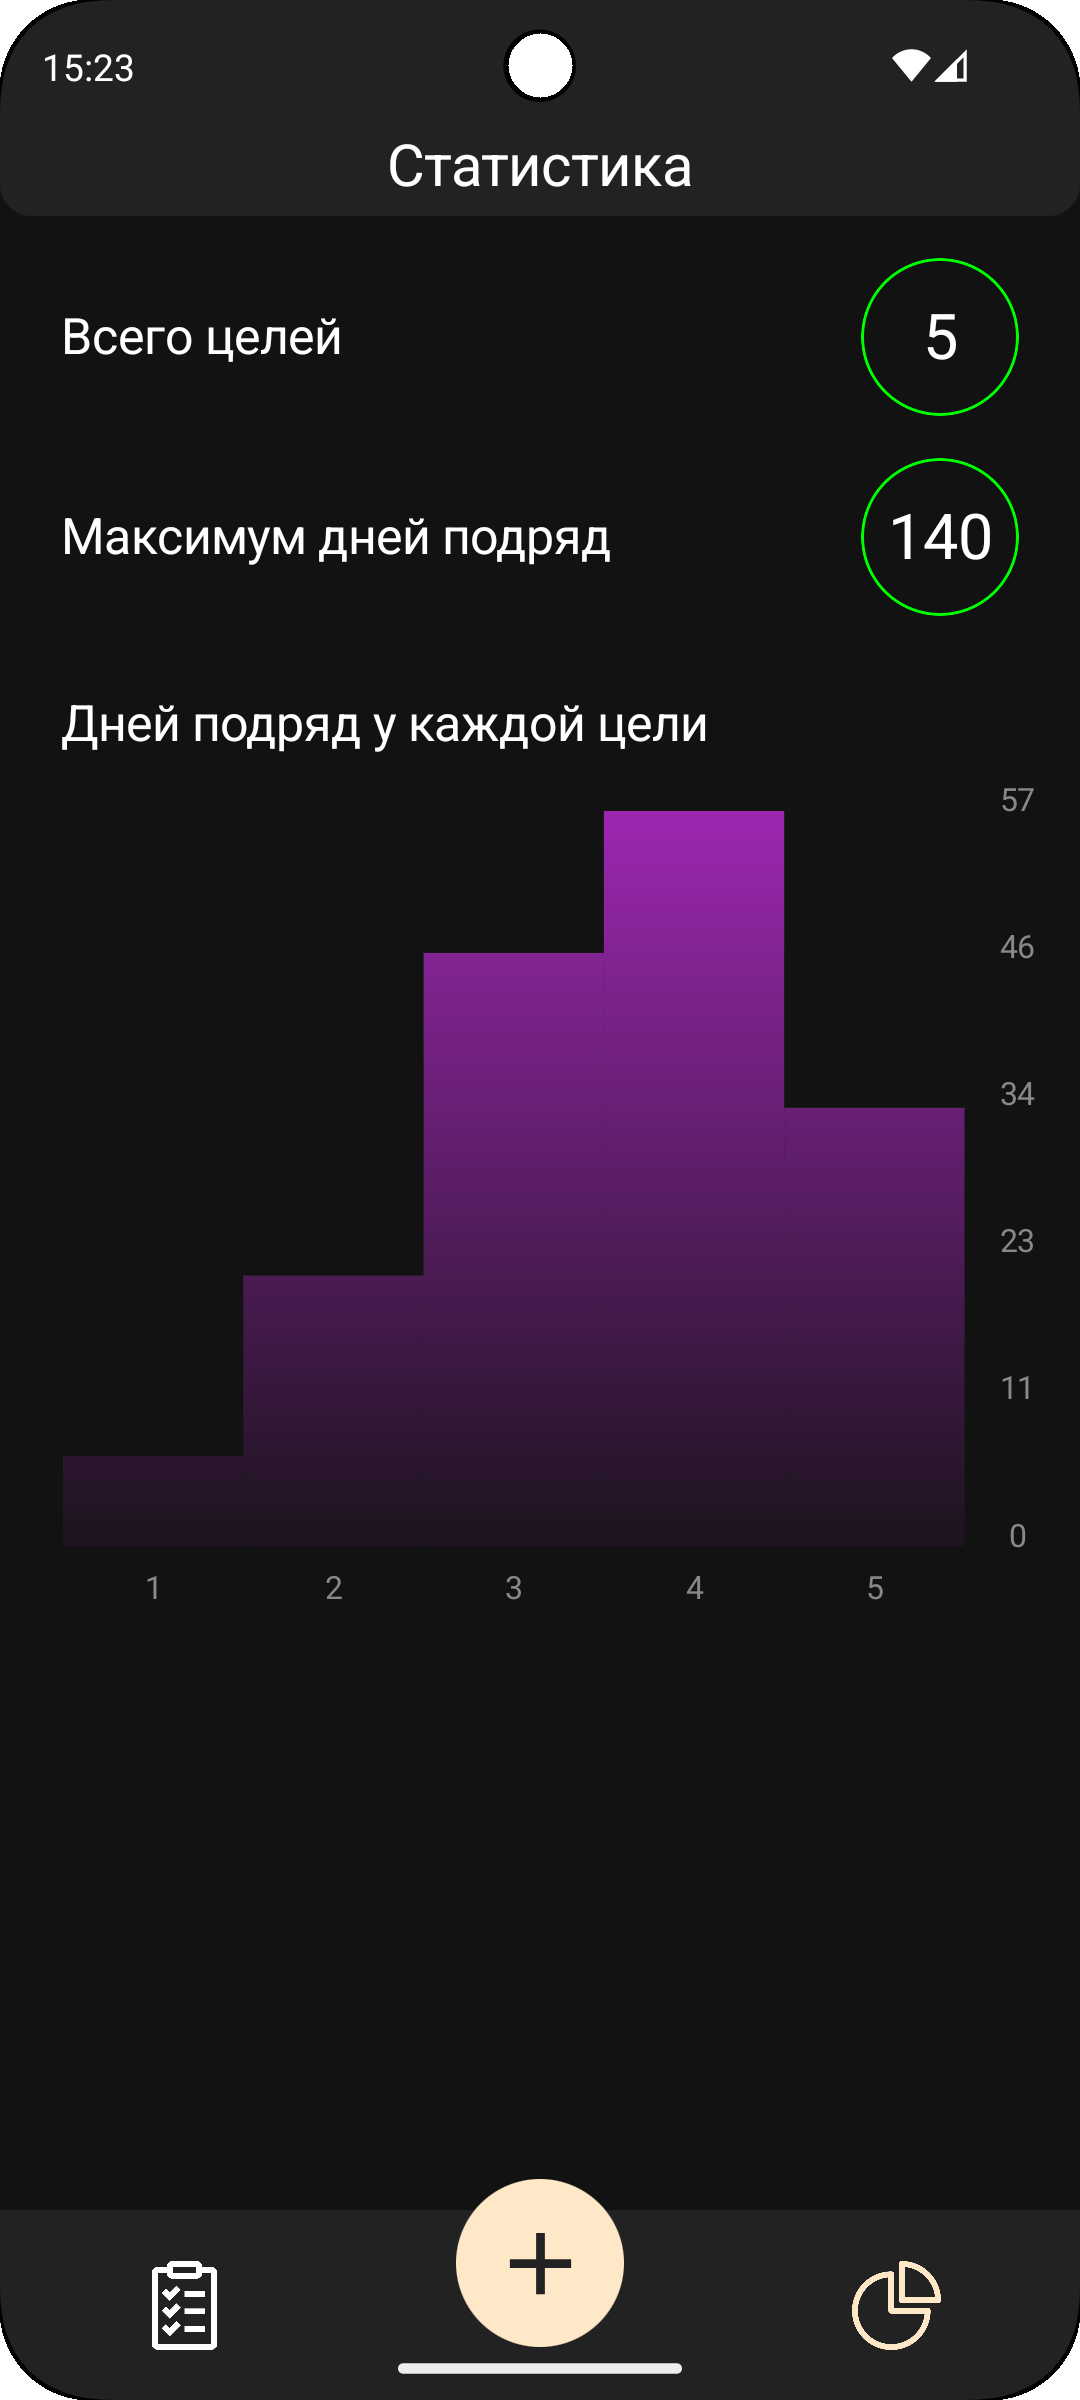
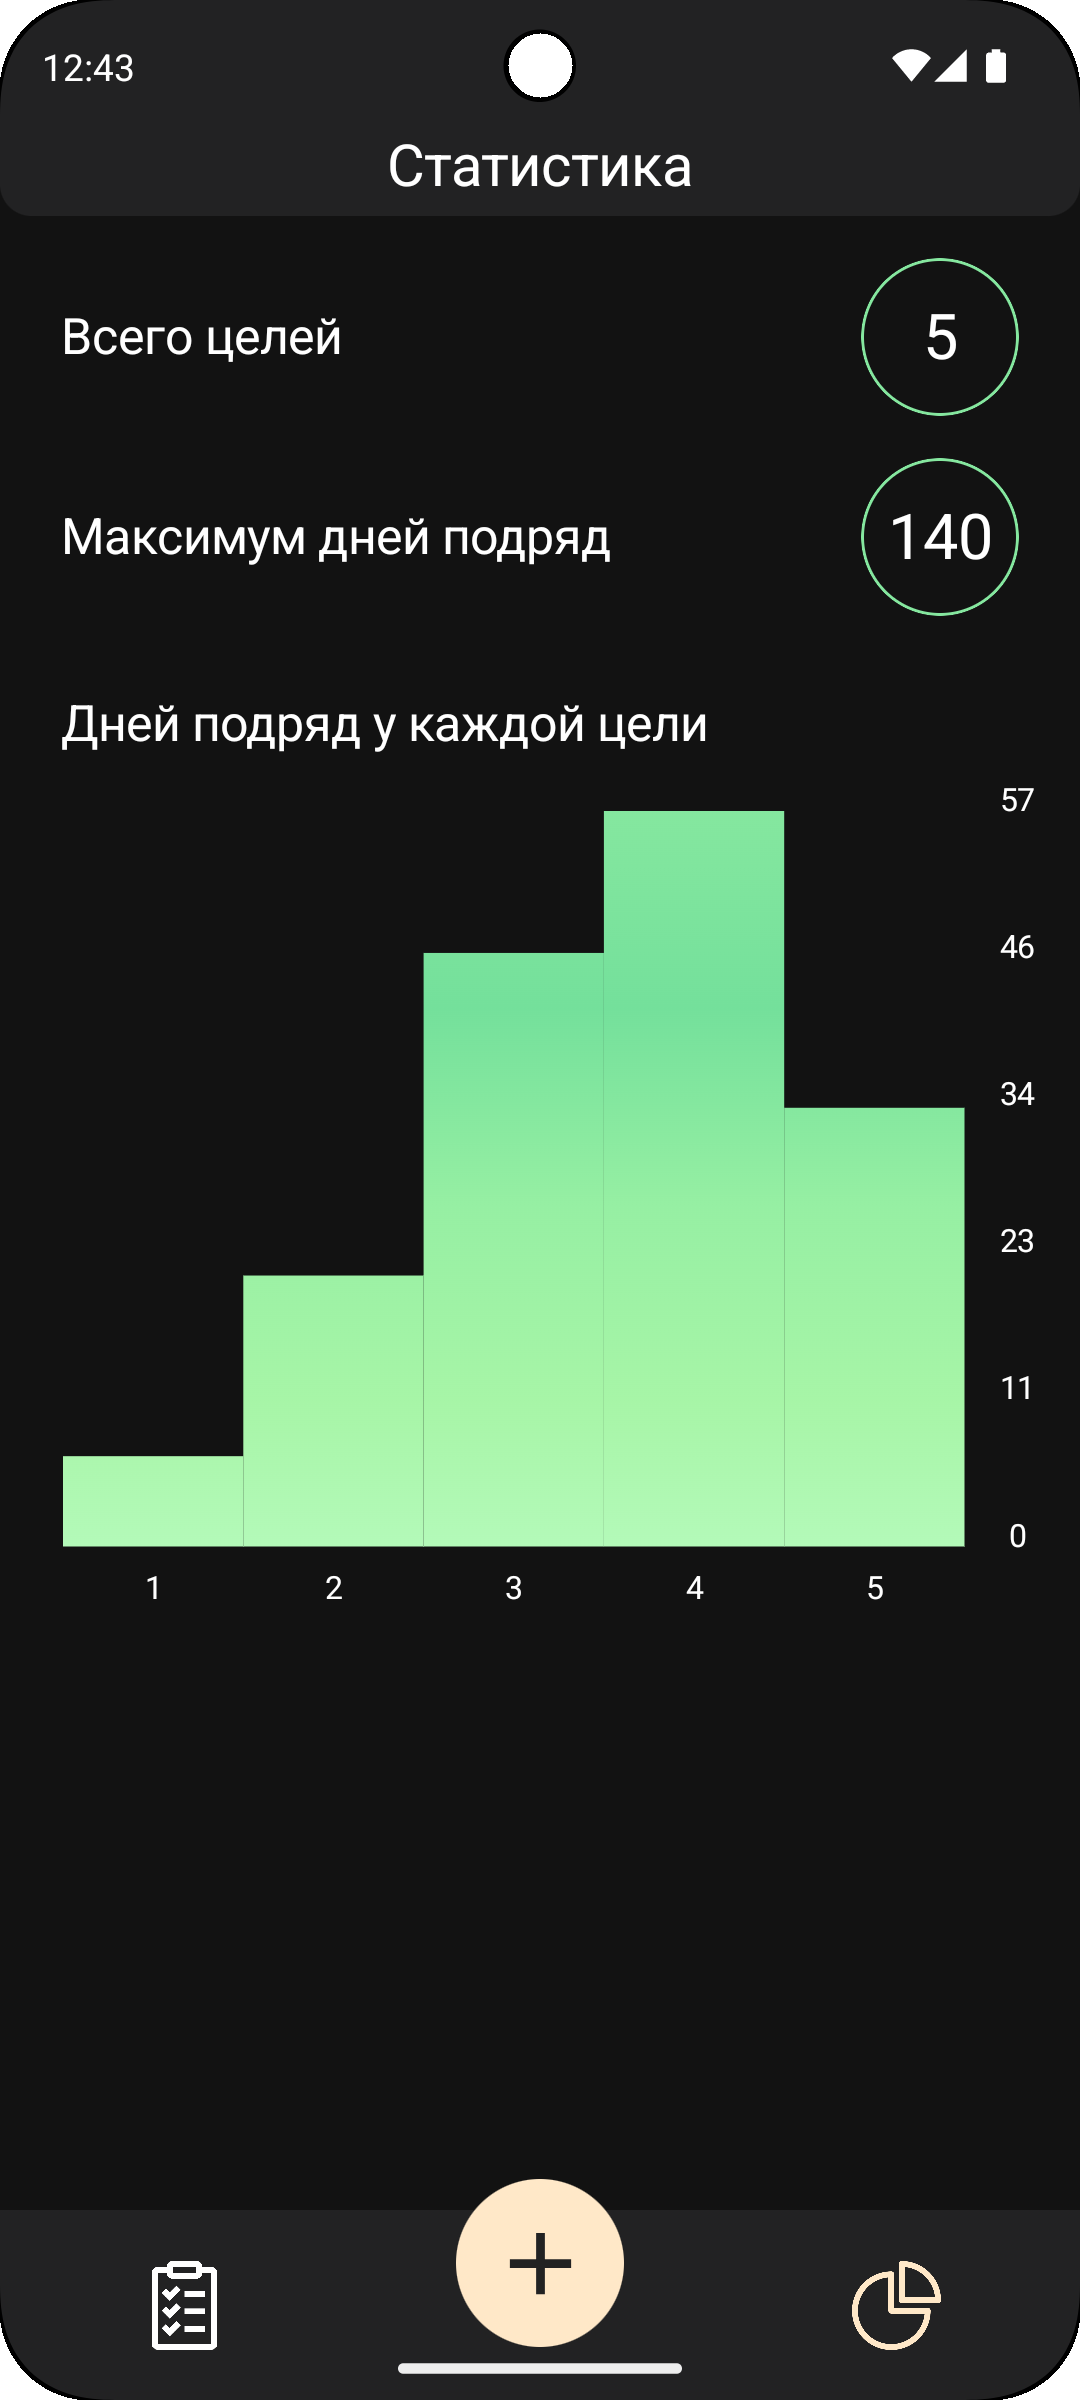
fixed: negative days in "comeback in", graph colors

diff --git a/app/src/main/java/com/unclled/habittracker/ui/statistic/view/StatisticView.kt b/app/src/main/java/com/unclled/habittracker/ui/statistic/view/StatisticView.kt
@@ -19,6 +19,7 @@ import androidx.compose.runtime.LaunchedEffect
 import androidx.compose.ui.Alignment
 import androidx.compose.ui.Modifier
 import androidx.compose.ui.draw.clip
+import androidx.compose.ui.graphics.Brush
 import androidx.compose.ui.graphics.Color
 import androidx.compose.ui.platform.LocalContext
 import androidx.compose.ui.text.font.FontWeight
@@ -27,9 +28,12 @@ import androidx.compose.ui.unit.dp
 import androidx.compose.ui.unit.sp
 import com.jaikeerthick.composable_graphs.composables.bar.BarGraph
 import com.jaikeerthick.composable_graphs.composables.bar.model.BarData
+import com.jaikeerthick.composable_graphs.composables.bar.style.BarGraphColors
+import com.jaikeerthick.composable_graphs.composables.bar.style.BarGraphFillType
 import com.jaikeerthick.composable_graphs.composables.bar.style.BarGraphStyle
 import com.jaikeerthick.composable_graphs.composables.bar.style.BarGraphVisibility
 import com.jaikeerthick.composable_graphs.style.LabelPosition
+import com.unclled.habittracker.theme.ColorPalette
 import com.unclled.habittracker.theme.LocalColors
 import com.unclled.habittracker.ui.statistic.viewmodel.StatisticVM
 
@@ -78,8 +82,24 @@ fun ShowGraph(daysInRow: List<Int>) {
         visibility = BarGraphVisibility(
             isYAxisLabelVisible = true
         ),
-        yAxisLabelPosition = LabelPosition.RIGHT
+        yAxisLabelPosition = LabelPosition.RIGHT,
+        colors = BarGraphColors(
+            xAxisTextColor = colors.text,
+            yAxisTextColor = colors.text,
+            fillType = BarGraphFillType.Gradient(
+                brush = Brush.verticalGradient(
+                    listOf(
+                        Color(133, 231, 159),
+                        Color(116, 224, 155),
+                        Color(150, 239, 163),
+                        Color(167, 245, 167),
+                        Color(184, 251, 191)
+                    )
+                )
+            )
+        )
     )
+
 
     Text(
         "Дней подряд у каждой цели",
@@ -116,7 +136,7 @@ fun StatisticPoint(message: String, number: Int) {
             modifier = Modifier
                 .size(60.dp)
                 .clip(CircleShape)
-                .border(1.dp, Color.Green, CircleShape)
+                .border(1.dp, Color(133, 231, 159), CircleShape)
                 .background(colors.background),
             contentAlignment = Alignment.Center
         ) {

diff --git a/app/src/main/java/com/unclled/habittracker/ui/habits/view/HabitsView.kt b/app/src/main/java/com/unclled/habittracker/ui/habits/view/HabitsView.kt
@@ -274,7 +274,7 @@ fun InnerItems(
                 verticalArrangement = Arrangement.SpaceBetween
             ) {
                 Text(
-                    if (comeBackIn != 0) {
+                    if (comeBackIn > 0) {
                         "Возвращайтесь через\n" + comeBackIn + " " + utils.dayAddition(comeBackIn)
                     } else {
                         "Пора подтвердить активность!"
